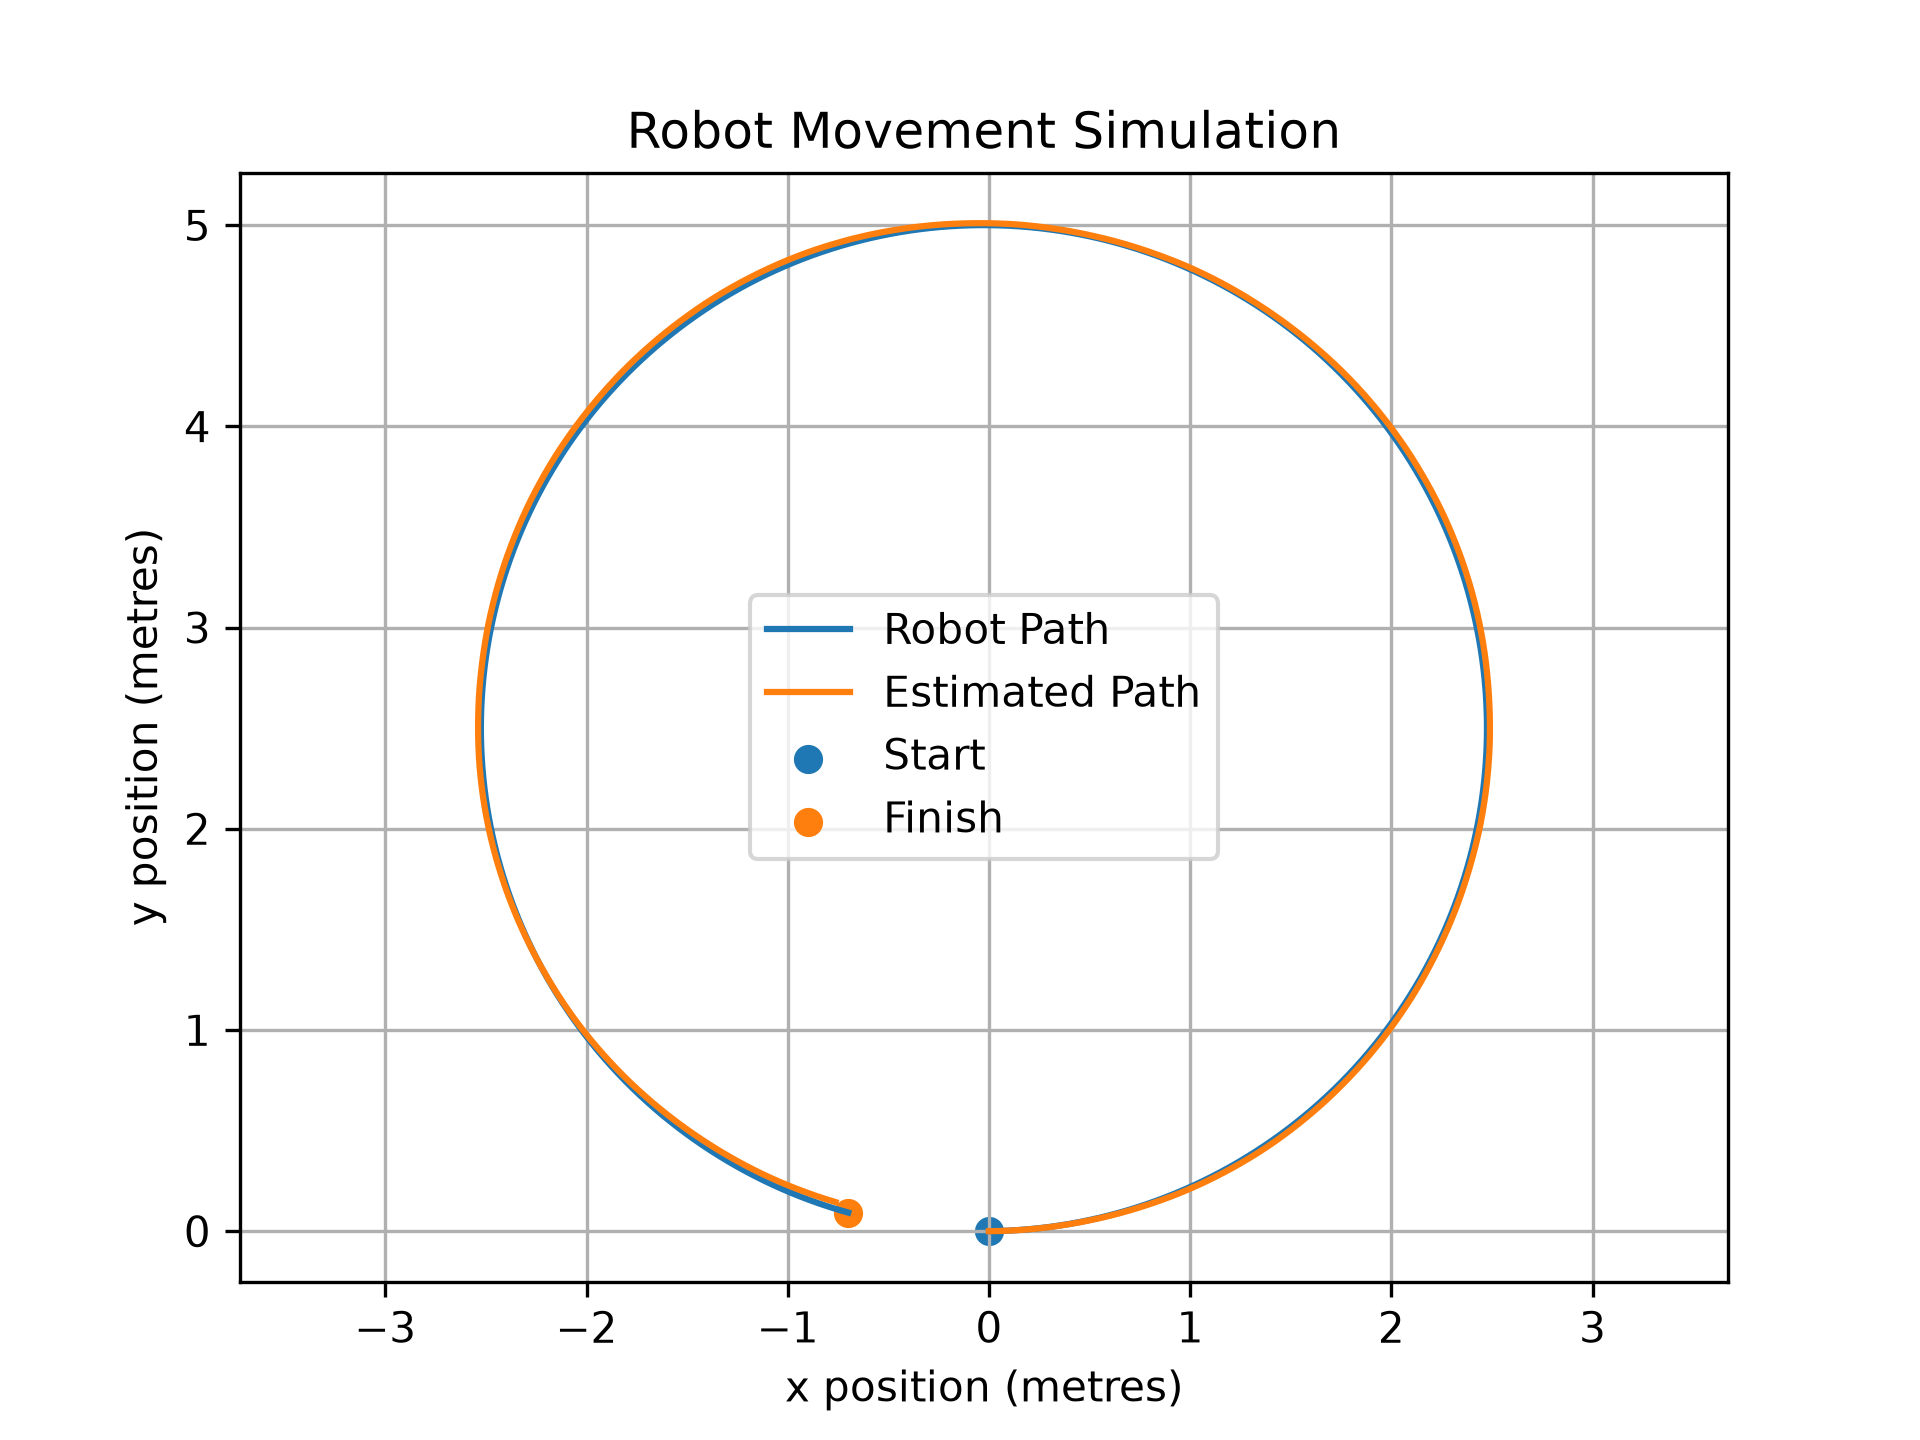
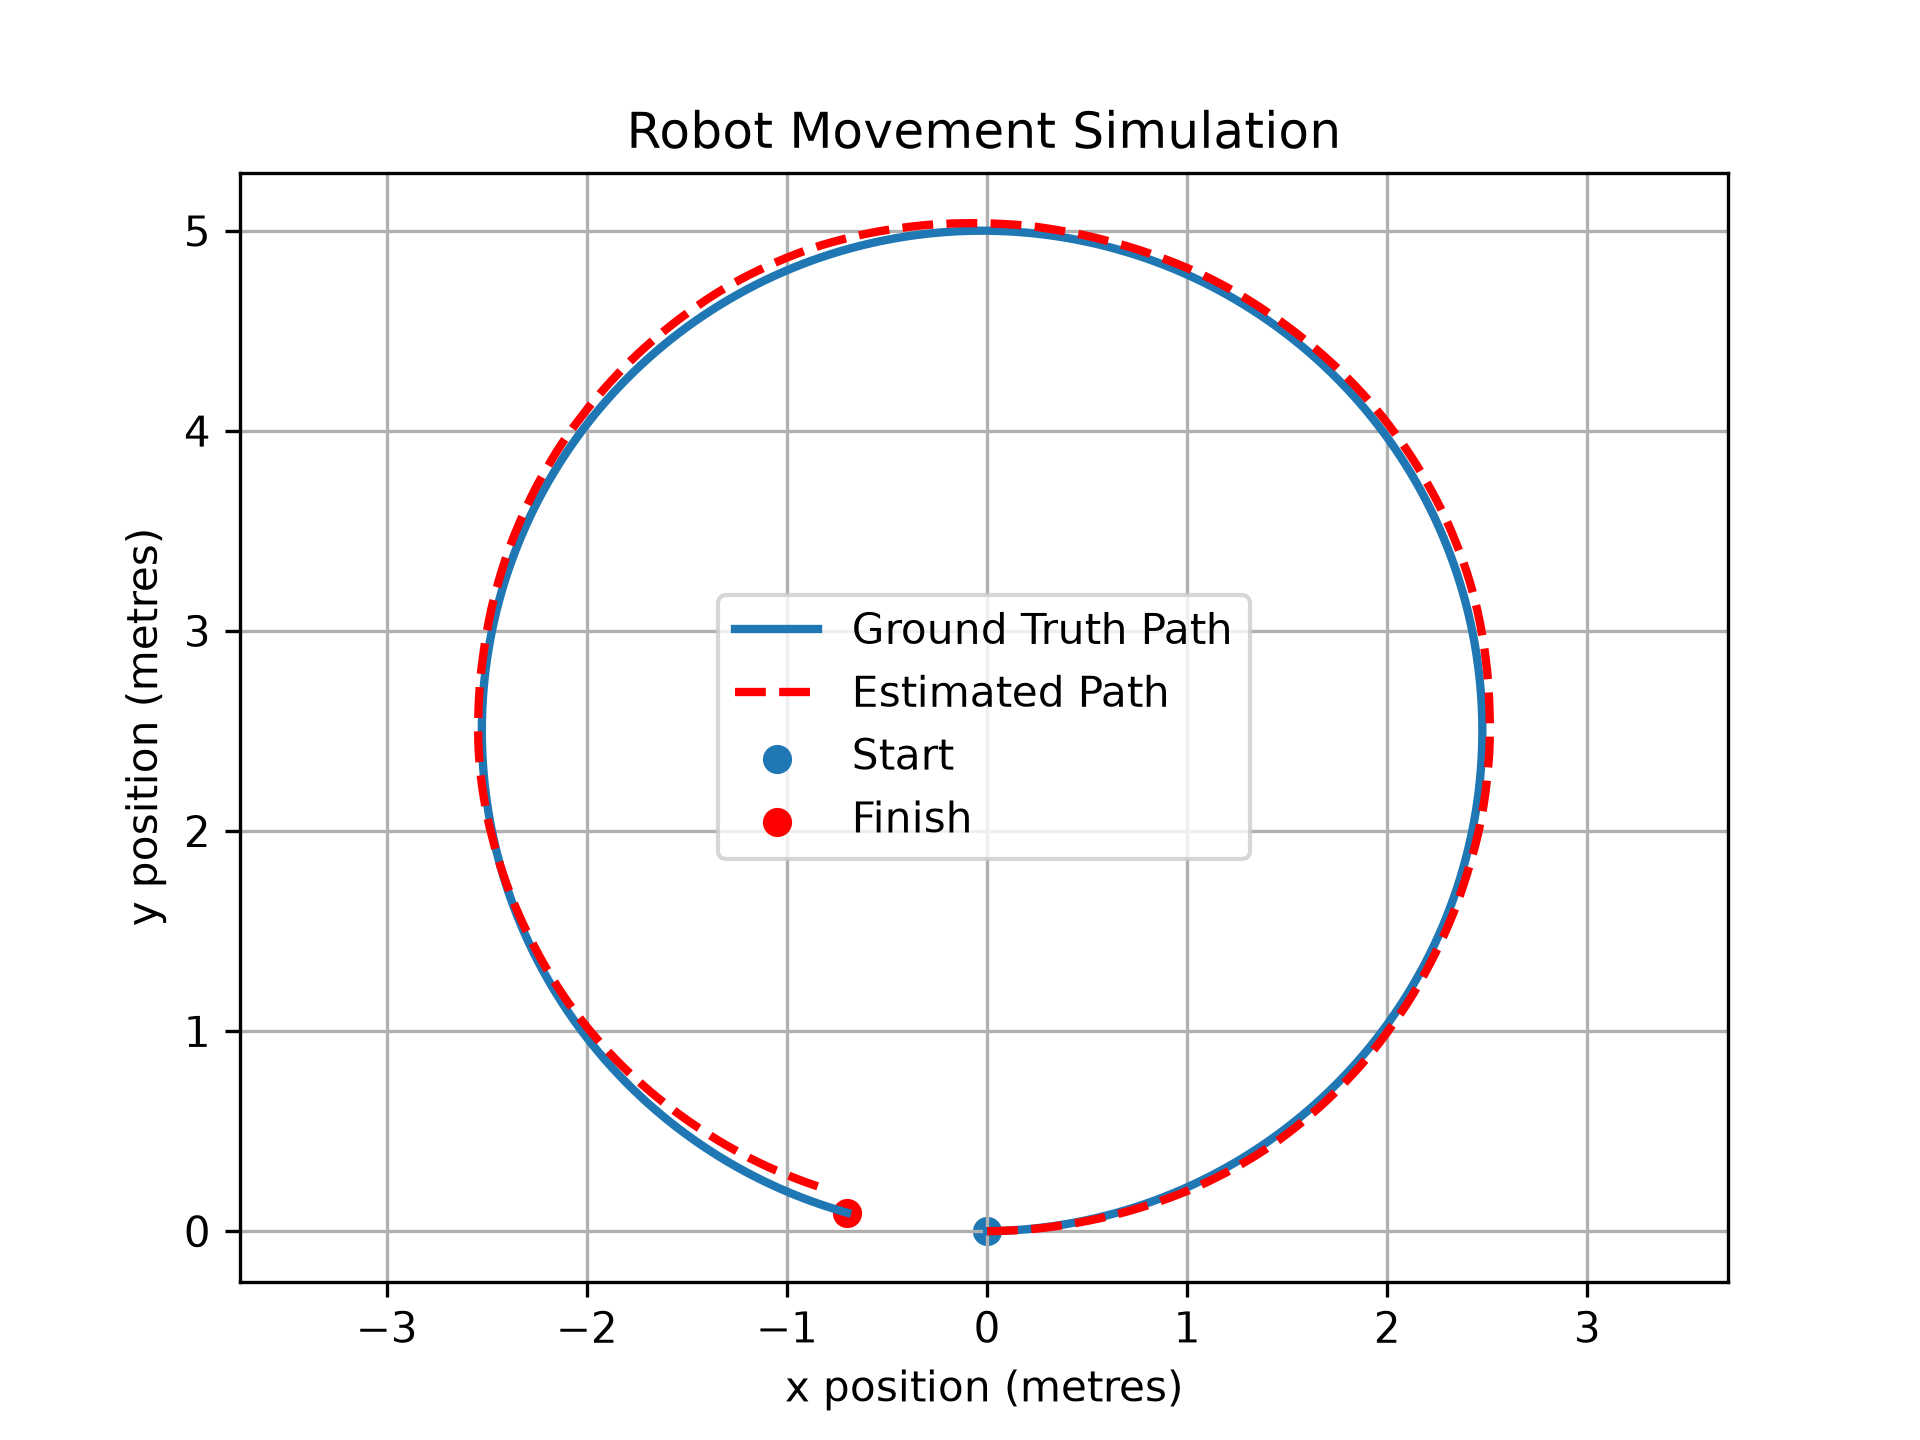
Increase odometry noise and improve trajectory plot styling

diff --git a/main.py b/main.py
@@ -7,9 +7,9 @@ totalTime = 30.0
 numberOfSteps = int(totalTime / stepTime)
 
 speed = 0.5
-speedNoise = 0.03
+speedNoise = 0.05
 turningRate = 0.2
-turningNoise = 0.02
+turningNoise = 0.05
 rand = num.random.default_rng(42)
 
 x = 0.0 
@@ -58,10 +58,10 @@ positionRMSE = num.sqrt(num.mean(positionError**2))
 print("Final position error:", round(finalError, 2), "metres")
 print("position RMSE:", round(positionRMSE, 2), "metres")
 
-mpl.plot(trueXPosition, trueYPosition, label="Robot Path")
-mpl.plot(estimatedXPosition, estimatedYPosition, label="Estimated Path")
+mpl.plot(trueXPosition, trueYPosition, linewidth=2, label="Ground Truth Path")
+mpl.plot(estimatedXPosition, estimatedYPosition, "--", linewidth=2, color="red", label="Estimated Path")
 mpl.scatter(trueXPosition[0], trueYPosition[0], label="Start")
-mpl.scatter(trueXPosition[-1], trueYPosition[-1], label="Finish")
+mpl.scatter(trueXPosition[-1], trueYPosition[-1], color="red", label="Finish")
 
 mpl.xlabel("x position (metres)")
 mpl.ylabel("y position (metres)")
